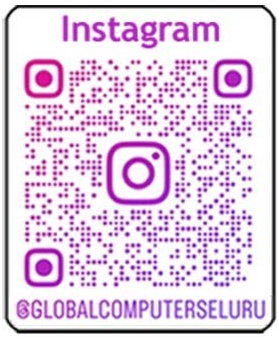
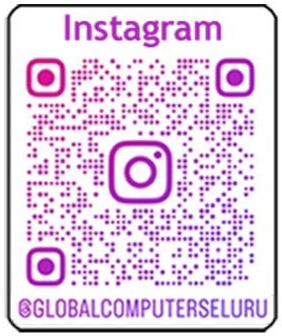
Tight crop QR codes and remove excess white padding from social QR cards

Changed region(s): [[0.0, 0.0, 1.0, 1.0]]

diff --git a/src/components/RatingsTrustSection.tsx b/src/components/RatingsTrustSection.tsx
@@ -262,12 +262,12 @@ export const RatingsTrustSection: React.FC<SocialMediaQRSectionProps> = ({
                     </span>
                   </div>
 
-                  {/* QR Code Container with High-Tech Laser Scan Animation */}
-                  <div className="relative my-2.5 p-3 bg-[#FAFBFD] rounded-xl border border-black/[0.06] flex items-center justify-center overflow-hidden group/qr">
+                  {/* QR Code Direct Display without excess white space/frames */}
+                  <div className="relative my-3 flex items-center justify-center overflow-hidden group/qr">
                     {/* Scanner Line Effect on Hover */}
                     {isHovered && (
                       <div
-                        className="absolute left-0 right-0 h-[2px] z-20 pointer-events-none shadow-[0_0_8px_rgba(241,90,36,0.8)] animate-pulse"
+                        className="absolute left-1/2 -translate-x-1/2 w-full max-w-[200px] h-[2px] z-20 pointer-events-none shadow-[0_0_8px_rgba(241,90,36,0.8)] animate-pulse"
                         style={{
                           backgroundColor: channel.accentColor,
                           animation: 'qrScan 2s linear infinite alternate',
@@ -275,18 +275,18 @@ export const RatingsTrustSection: React.FC<SocialMediaQRSectionProps> = ({
                       />
                     )}
 
-                    {/* Clean Cropped QR Code Image */}
-                    <div className="relative z-10 w-full max-w-[160px] aspect-square flex items-center justify-center bg-white rounded-lg p-1.5 shadow-2xs">
+                    {/* Clean QR Code Image filling the space cleanly */}
+                    <div className="relative z-10 w-full max-w-[200px] flex items-center justify-center">
                       <img
                         src={channel.qrImage}
                         alt={`${channel.name} QR Code - Global Computers Eluru`}
-                        className="w-full h-full object-contain select-none transition-transform duration-300 group-hover/qr:scale-105"
+                        className="w-full h-auto object-contain select-none transition-transform duration-300 group-hover/qr:scale-103 rounded-lg"
                         loading="lazy"
                       />
                     </div>
 
                     {/* Micro Scan Helper Pill */}
-                    <div className="absolute bottom-1.5 z-20 bg-black/75 backdrop-blur-md px-2 py-0.5 rounded-full text-white font-mono text-[0.58rem] flex items-center gap-1 opacity-0 group-hover:opacity-100 transition-opacity duration-200">
+                    <div className="absolute bottom-2 z-20 bg-black/80 backdrop-blur-md px-2.5 py-0.5 rounded-full text-white font-mono text-[0.58rem] flex items-center gap-1 opacity-0 group-hover:opacity-100 transition-opacity duration-200 shadow-md">
                       <QrCode size={10} className="text-[#F15A24]" />
                       <span>Scan Code</span>
                     </div>
